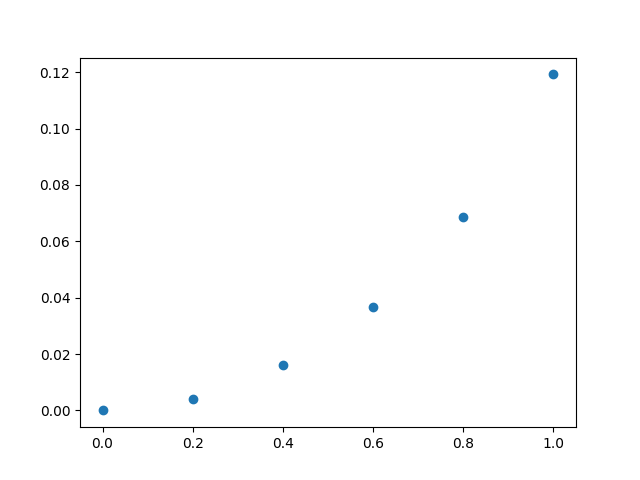
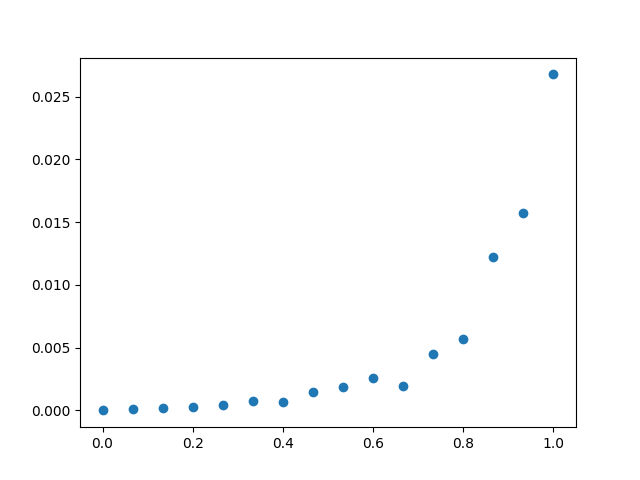
thing

diff --git a/qutrit/train2.py b/qutrit/train2.py
@@ -224,6 +224,6 @@ def run_model_communication(img_path):
     plt.scatter(entangled_amount, results)
     plt.savefig(img_path)
 
-run_model("loss_plot.png")
+run_model_communication("loss_plot_comm.png")
 #build_and_save_model("my_model3.h5")
 
